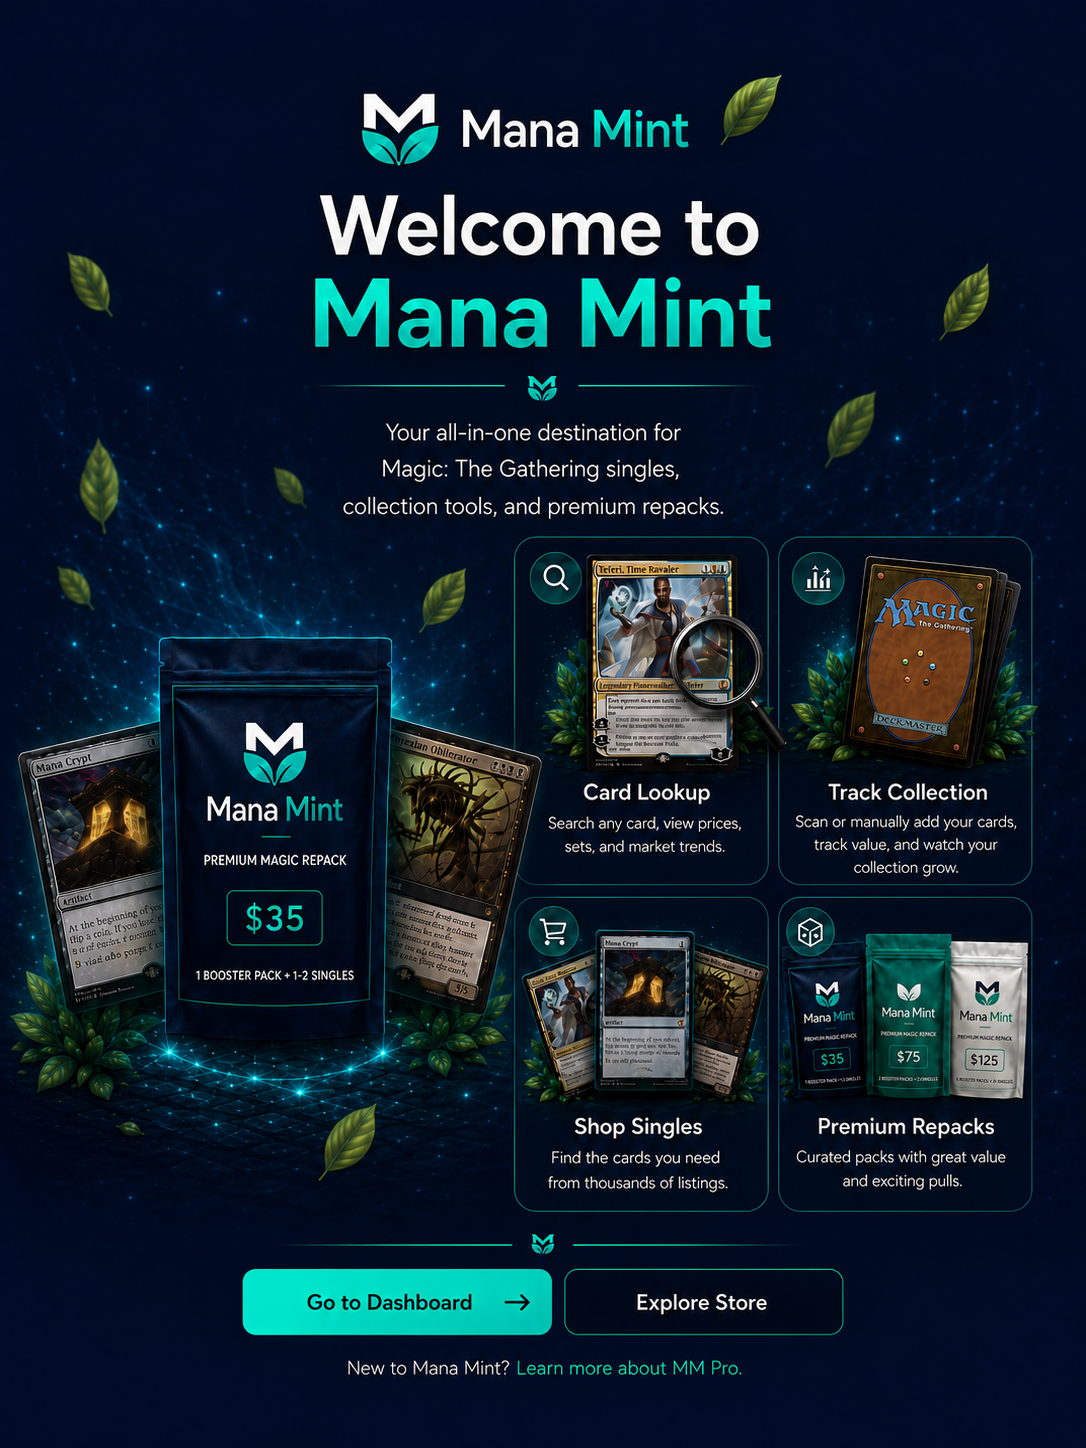
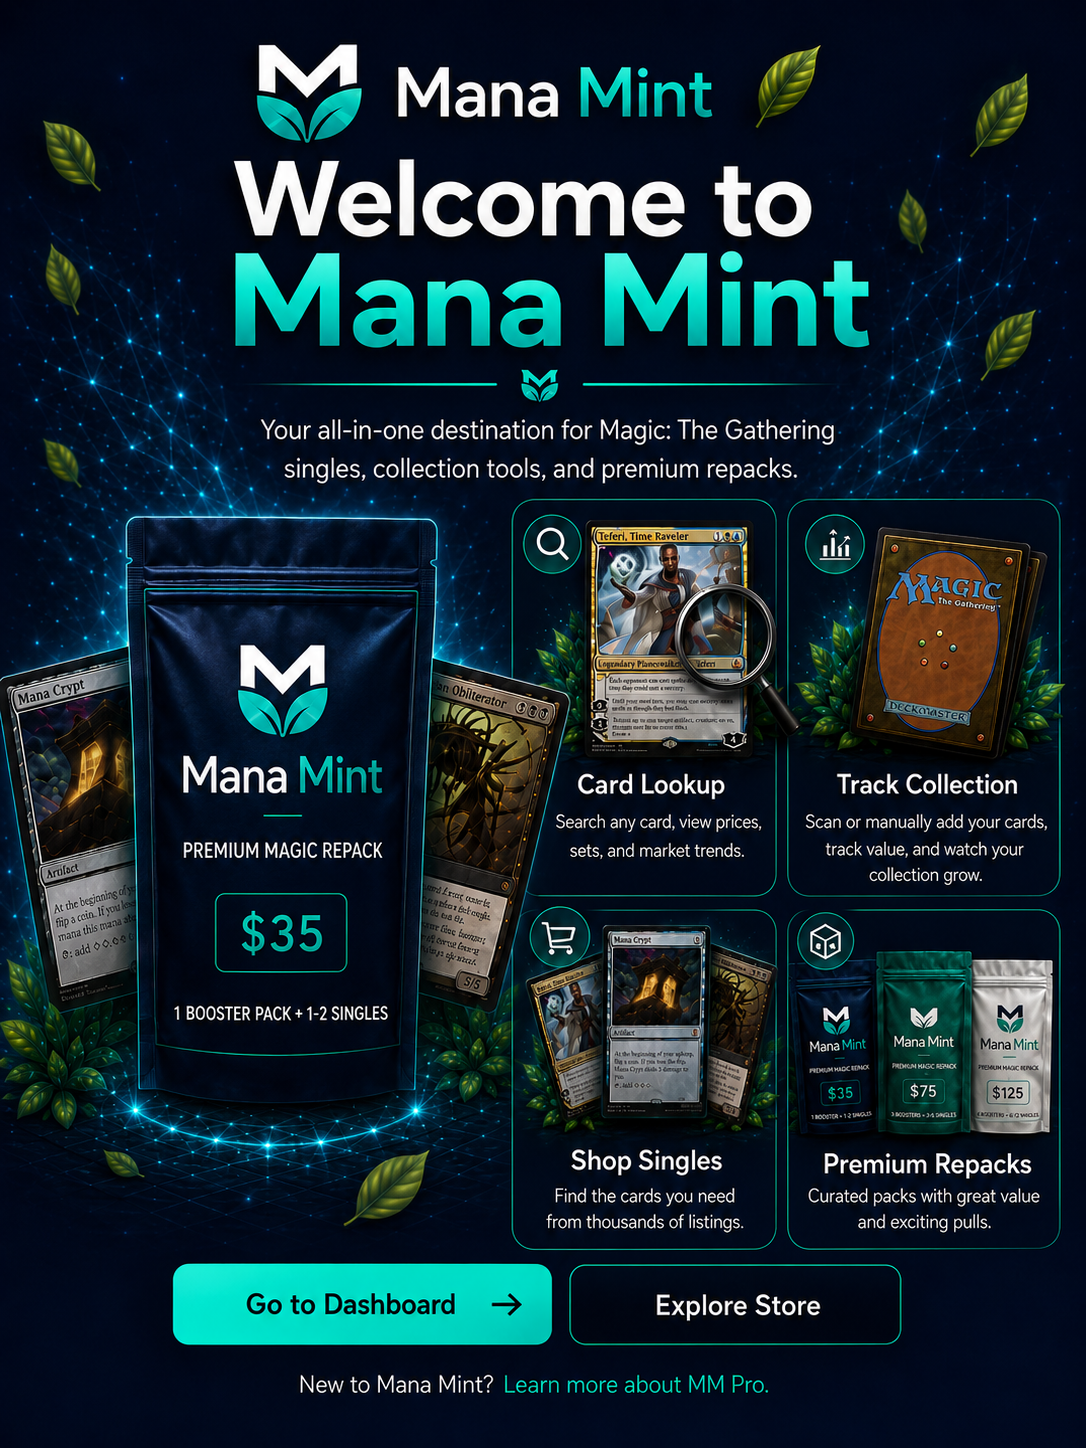
Update mobile welcome popup with larger-scaled artwork
The previous portrait crop wasn't scaled up enough; the new image
fills more of the frame. Re-measured hotspot positions to match the
new button placements.

diff --git a/src/pages/HeroLanding.jsx b/src/pages/HeroLanding.jsx
@@ -31,9 +31,9 @@ const PORTRAIT = {
   src: '/welcome-popup-portrait.png',
   w: 1086, h: 1448,
   hotspots: [
-    { label: 'Go to Dashboard',                nav: 'dashboard',  left: '22%',   top: '87%',   width: '29%',   height: '5.5%' },
-    { label: 'Explore Store',                  nav: 'store',      left: '51.5%', top: '87%',   width: '26.5%', height: '5.5%' },
-    { label: 'Learn more about Mana Mint Pro', nav: 'membership', left: '47%',   top: '92.8%', width: '24%',   height: '3%'   },
+    { label: 'Go to Dashboard',                nav: 'dashboard',  left: '16%', top: '87%', width: '34%', height: '6%' },
+    { label: 'Explore Store',                  nav: 'store',      left: '52%', top: '87%', width: '33%', height: '6%' },
+    { label: 'Learn more about Mana Mint Pro', nav: 'membership', left: '46%', top: '95%', width: '24%', height: '2%' },
   ],
 }
 
